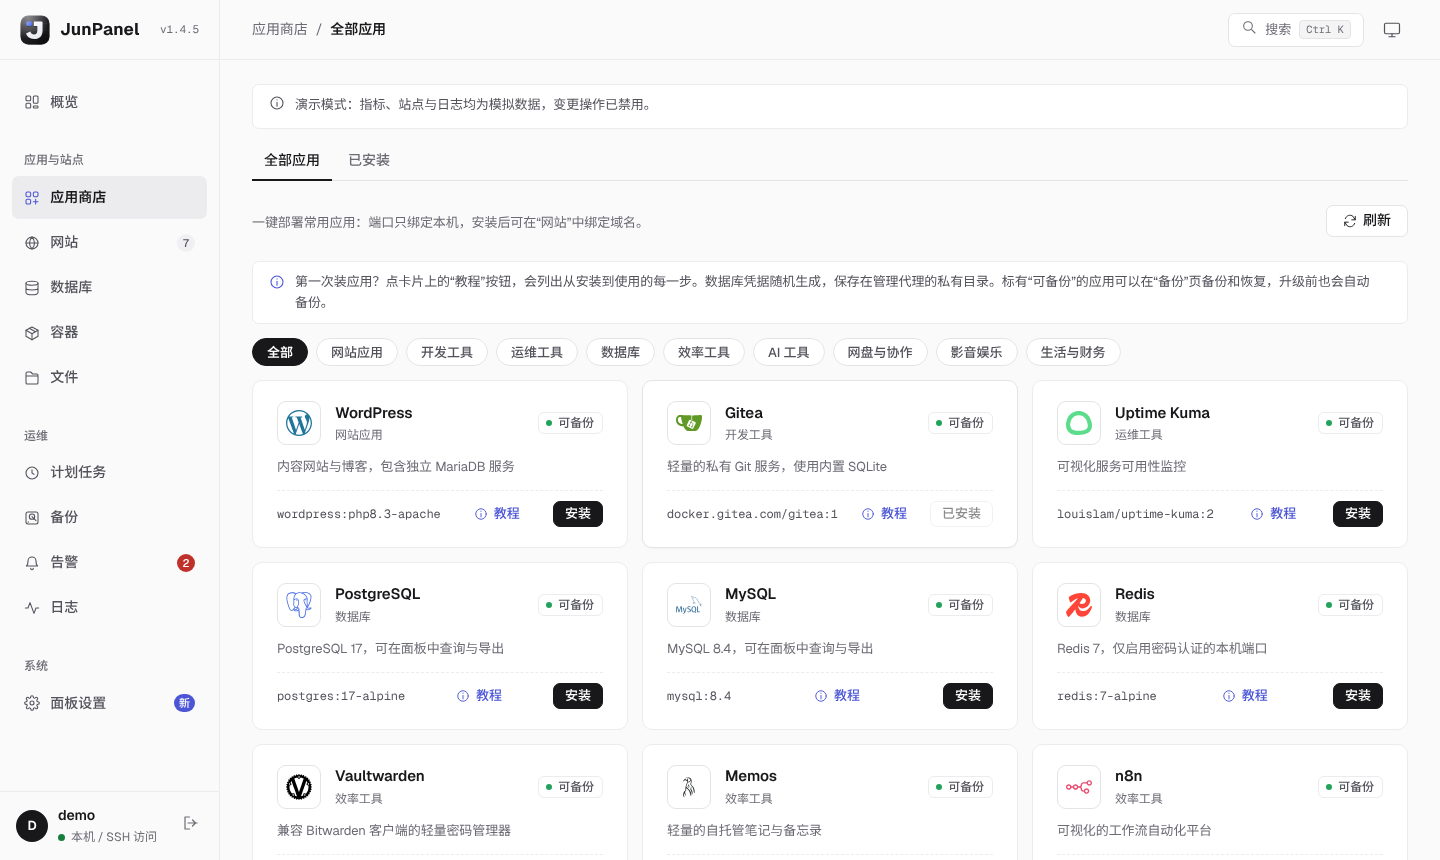
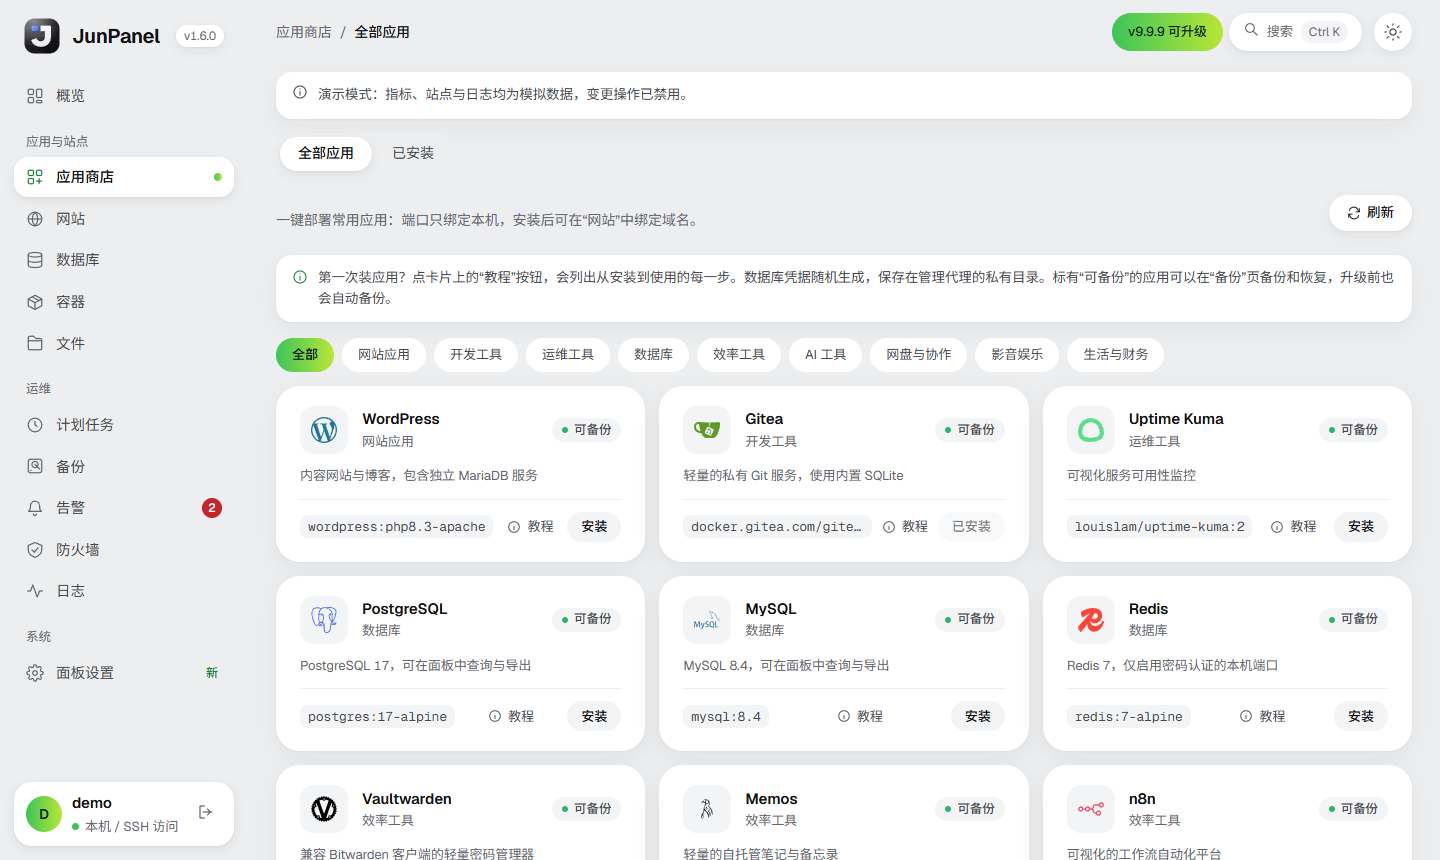
文档与截图同步到 v1.6.0
- README：外观描述改为 Soft Bento，默认浅色；NAT 出口 IP 查询说明；补充 junpanel 命令；更新当前限制
- VALIDATION.md：加入 v1.6.0 验证记录，更新测试数量与覆盖率，补充未在真机验证的项目
- preview.png、app-center.png 按新界面重拍

diff --git a/VALIDATION.md b/VALIDATION.md
@@ -1,18 +1,22 @@
-# JunPanel 0.1.1 验证记录
+# JunPanel 验证记录
 
-验证日期：2026-10-15。开发和测试主机为 Windows；这不是 Debian 实机验收报告。
+最近更新：2026-11-15，对应 v1.6.0。本记录从 0.1.1（2026-10-15）起逐版累加，较早的条目保留原样。开发主机为 Windows，自动测试在 GitHub Actions 的 Linux 上运行；这不是 Debian 实机验收报告。
+
+v1.6.0 界面改版（Soft Bento）：浅灰底、白色大圆角卡片、青柠绿渐变强调色，默认主题改为浅色；功能没有变化。验证方式：
+- 演示模式下用无界面 Chrome 在 1440 × 860 视口、浅色主题逐页截图查看：概览、全部应用、任务、操作日志、登录日志、公网入口、版本升级、证书、编排、镜像、网络、卷，共 12 页，页面标题与内容对应，没有错位或溢出。
+- 这次没有重新检查深色主题、390 像素手机视口和悬停动效。
 
 0.1.1 更新：重新设计 J 与面板单元组合的 SVG 标识及字标，应用到登录页、侧栏、服务器卡片和浏览器图标；浏览器检查标识实际加载、小尺寸显示和深浅主题。
 
-界面改版（参照 1Panel）：合并为一份样式表，主色 `#005EEB`；左侧一级菜单按模块分组，同一模块的页面用顶部标签切换（应用商店：全部应用/已安装；网站：网站/证书；容器：容器/编排/镜像/终端；面板设置：安全/版本升级）；概览页改为计数、状态仪表、监控曲线、系统信息与服务状态；标识改为蓝色。验证方式：
+较早的界面改版（参照 1Panel，外观已被 v1.6.0 取代，布局沿用）：合并为一份样式表，主色 `#005EEB`；左侧一级菜单按模块分组，同一模块的页面用顶部标签切换（应用商店：全部应用/已安装；网站：网站/证书；容器：容器/编排/镜像/终端；面板设置：安全/版本升级）；概览页改为计数、状态仪表、监控曲线、系统信息与服务状态；标识改为蓝色。验证方式：
 - 演示模式下用 Playwright 在 1440 与 390 像素视口、浅色与深色主题逐页截图检查，没有 JavaScript 错误；26 项交互检查通过（菜单分组与标签切换、面包屑、地址栏深链接、概览计数跳转、监控标签、快捷搜索、主题切换并保存、弹窗、角标、手机菜单与遮罩、退出）。
 - 修复一个旧问题：页面加载慢时快速切换页面，上一页的操作按钮会叠加到新页面上（例如从“备份”切到“文件”后，文件页多出“刷新”“新建备份”）。在把每个接口请求延迟 400–800 毫秒的条件下，旧代码 5 组切换全部复现，新代码均只显示当前页的按钮。
 - 用真实的管理代理与网页服务（非演示）检查全部 17 个页面：Docker 未运行时各页显示错误而不是空白；启动 Docker 后，真实容器的列表、编排分组、镜像、日志弹窗、停止与启动、容器终端执行命令、任务日志均正常。
 
 ## 已完成
 
-- `go test -count=1 -v ./...`：17 项测试通过。
-- `go test -count=1 -cover ./...`：语句覆盖率 46.8%。
+- `go test -race -cover ./...`（CI，Linux）：通过，161 个测试函数，语句覆盖率 70.2%（v1.6.0 合并后的 main）。0.1.1 时为 17 项、46.8%。
+- CI 另用真实 Docker Engine 运行备份、恢复、升级、编排、网络、卷、告警和应用模板测试，用真实 Caddy 运行入口脚本和网站设置测试。
 - `go vet ./...`：通过。
 - `node --check web/app.js`：通过。
 - `bash -n install.sh`、`bash -n build.sh`、`bash -n uninstall.sh`：通过，交付脚本采用 LF 换行。
@@ -20,7 +24,7 @@
 - 浏览器通过实际 Go HTTP 服务进行演示登录，检查总览、Caddy 只读概览、建站表单、应用商店、容器、项目、文件、数据库、终端入口、任务与安全页面。
 - 验证演示建站提交被服务端拒绝；演示数据有明确标识。
 - 1440 像素桌面与 390 像素手机视口检查；页面无横向溢出，手机导航可开关，应用卡片转为单列；检查深浅主题，未观察到 JavaScript 警告或错误。
-- 最终界面截图：`preview.png`、`app-center.png`。截图中的服务器、网站、日志和资源数据均为模拟数据。
+- 界面截图：`preview.png`、`app-center.png`，2026-11-15 按 v1.6.0 界面重拍。截图中的服务器、网站、日志和资源数据均为模拟数据。
 
 域名入口（`public-access.sh --domain`）：
 - `tests/domain-access.sh`（CI 中有一步用真实 Caddy 运行）：域名格式与保留名称；生成的入口里三条来源规则都是域名、没有 IP 专用的证书设置、IP 入口的输出与改动前逐字节一致；已配置的域名或 IP 入口会被一键安装器沿用，不会被改回；已被其它站点占用的域名（各种写法）会被发现；再用真实 Caddy（本地签发的证书）代理演示面板，检查证书对域名有效、面板可访问、登录 Cookie 带 Secure、来源不符或缺失的写请求和来源不符的读请求被拒绝、裸 IP 不再响应。对生成入口做过 3 处故意破坏（去掉 Secure、域名入口带上 IP 证书设置、不识别已配置的域名），相应检查均会失败。
@@ -66,13 +70,14 @@
 
 ## 未验证的目标环境能力
 
-当前主机没有可运行的 Debian/systemd/Docker 环境，以下需要在目标环境中验收，不能由前述模拟测试代替：
+开发主机和 CI 都不是带 systemd 的完整 Debian 服务器，以下需要在目标环境中验收，不能由前述模拟测试代替：
 
 - 安装器在 Debian 上创建用户、应用 systemd 隔离设置、重载/回退/升级/移除服务的实际效果。面板内升级里“经 `systemd-run` 在代理之外运行安装器，并在安装器停止代理后继续完成”这一步，只用假的 `systemd-run` 验证了参数和启动脚本，没有在真实的 systemd 上验证（本机沙箱没有运行 systemd）。
 - 与用户现有 Caddyfile、定制模块、证书存储和服务环境的兼容性，以及真实域名的 ACME 签发。
 - Docker/Compose 镜像拉取、六种应用真实初始化、容器依赖、命名卷保留与恢复。（备份功能已在真实 Docker Engine 上验证：Redis 与 WordPress/MariaDB 的应用备份、改动数据后恢复、被改动备份被拒绝，PostgreSQL 约 12 MB 的流式数据库备份；这些测试用环境变量 `JUNPANEL_DOCKER_TEST=1` 开启，WordPress 另需 `JUNPANEL_DOCKER_TEST_LARGE=1`，其余应用模板的备份与恢复尚未逐个验证。）
 - PostgreSQL、MySQL、MariaDB、Redis 原生工具的真实执行和导出内容恢复。
 - Linux PTY、容器交互终端、长时间资源占用、低内存压力与断电恢复。
-- Go race 检测、独立渗透测试和长期稳定性测试。
+- 独立渗透测试和长期稳定性测试。（Go race 检测已在 CI 中运行。）
+- v1.5.16–v1.5.19 新增的几项：防火墙规则挂在 prerouting 后在真实 nftables 中对 Docker 发布端口生效、拒绝封禁正在使用的 SSH 地址；一键安装自动安装 Docker 与 Caddy、升级旧版 Caddy、NAT 机器查询出口 IP；`junpanel` 命令的菜单和各子命令；接管已有 Compose 项目。
 
 没有连接、安装或修改用户的远程服务器。
